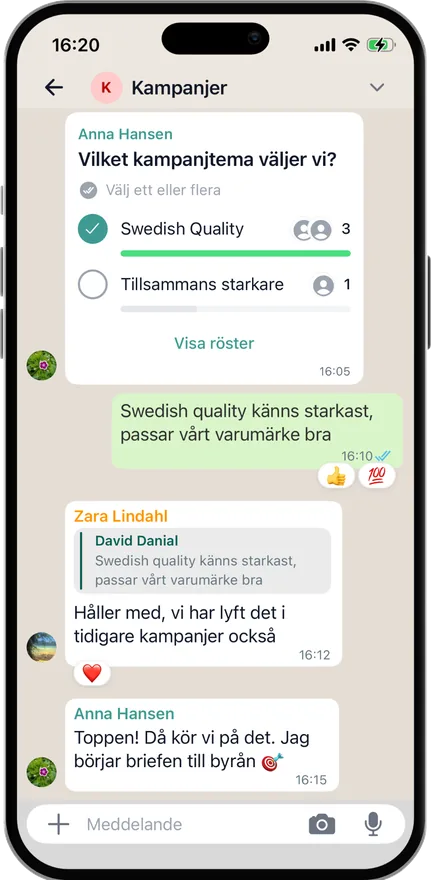
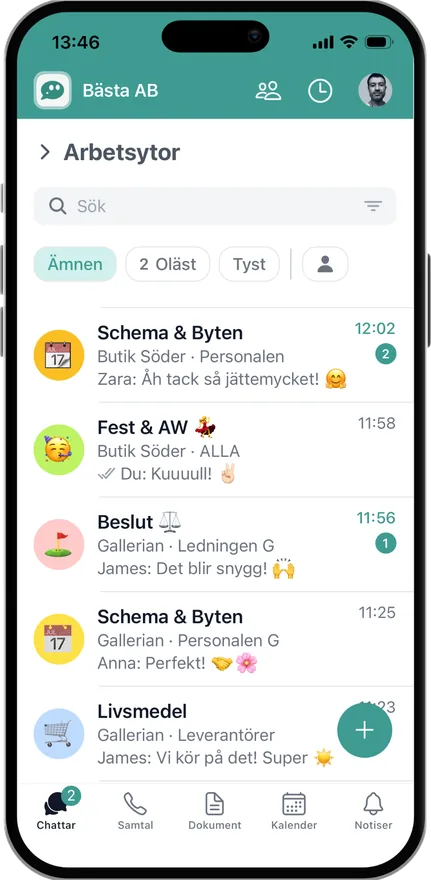
Funktionsbandet: Ämnen och Enkel chatt som egna kort, ny ordning
Ämnen får chattlistan som bild och den tidigare ämnesbilden blir kortet
Enkel chatt. Ny text för organisationskortet, och dokument kommer före
kalendern så att kalender och uppgifter ligger bredvid varandra.

diff --git a/index.html b/index.html
@@ -83,14 +83,21 @@
             <img src="Bilder/funktioner/grupper.webp" alt="Gruppöversikten i Topicos med arbetsytor och grupper" width="431" height="880" loading="lazy" decoding="async">
           </div>
           <h3>Organisation och grupper</h3>
-          <p>Samla företaget i en organisation och dela upp teamet i grupper.</p>
+          <p>Dela upp din organisation i arbetsytor och grupper.</p>
         </div>
         <div class="feature-card">
           <div class="feature-shot">
-            <img src="Bilder/funktioner/amnen.webp" alt="En ämneschatt med en omröstning och svar från kollegor" width="431" height="880" loading="lazy" decoding="async">
+            <img src="Bilder/funktioner/amnen.webp" alt="Chattlistan med ett ämne per rad och filter för olästa" width="431" height="880" loading="lazy" decoding="async">
           </div>
           <h3>Ämnen</h3>
           <p>Skapa chattar per ämne för olika projekt och håll konversationer fokuserade.</p>
+        </div>
+        <div class="feature-card">
+          <div class="feature-shot">
+            <img src="Bilder/funktioner/chatt.webp" alt="En ämneschatt med en omröstning och svar från kollegor" width="431" height="880" loading="lazy" decoding="async">
+          </div>
+          <h3>Enkel chatt</h3>
+          <p>Chatta bekvämt så som du är van med.</p>
         </div>
         <div class="feature-card">
           <div class="feature-shot">
@@ -101,17 +108,17 @@
         </div>
         <div class="feature-card">
           <div class="feature-shot">
-            <img src="Bilder/funktioner/kalender.webp" alt="Teamkalendern med månadsvy och kommande möten" width="431" height="880" loading="lazy" decoding="async">
-          </div>
-          <h3>Teamkalender</h3>
-          <p>Skapa event och möten i en gemensam kalender.</p>
-        </div>
-        <div class="feature-card">
-          <div class="feature-shot">
             <img src="Bilder/funktioner/dokument.webp" alt="Dokumentvyn med mappar och undermappar" width="431" height="880" loading="lazy" decoding="async">
           </div>
           <h3>Dokument och mappar</h3>
           <p>Samla viktiga dokument i mappar som teamet hittar direkt. Lås dem till rätt grupp.</p>
+        </div>
+        <div class="feature-card">
+          <div class="feature-shot">
+            <img src="Bilder/funktioner/kalender.webp" alt="Teamkalendern med månadsvy och kommande möten" width="431" height="880" loading="lazy" decoding="async">
+          </div>
+          <h3>Teamkalender</h3>
+          <p>Skapa event och möten i en gemensam kalender.</p>
         </div>
         <div class="feature-card">
           <div class="feature-shot">
